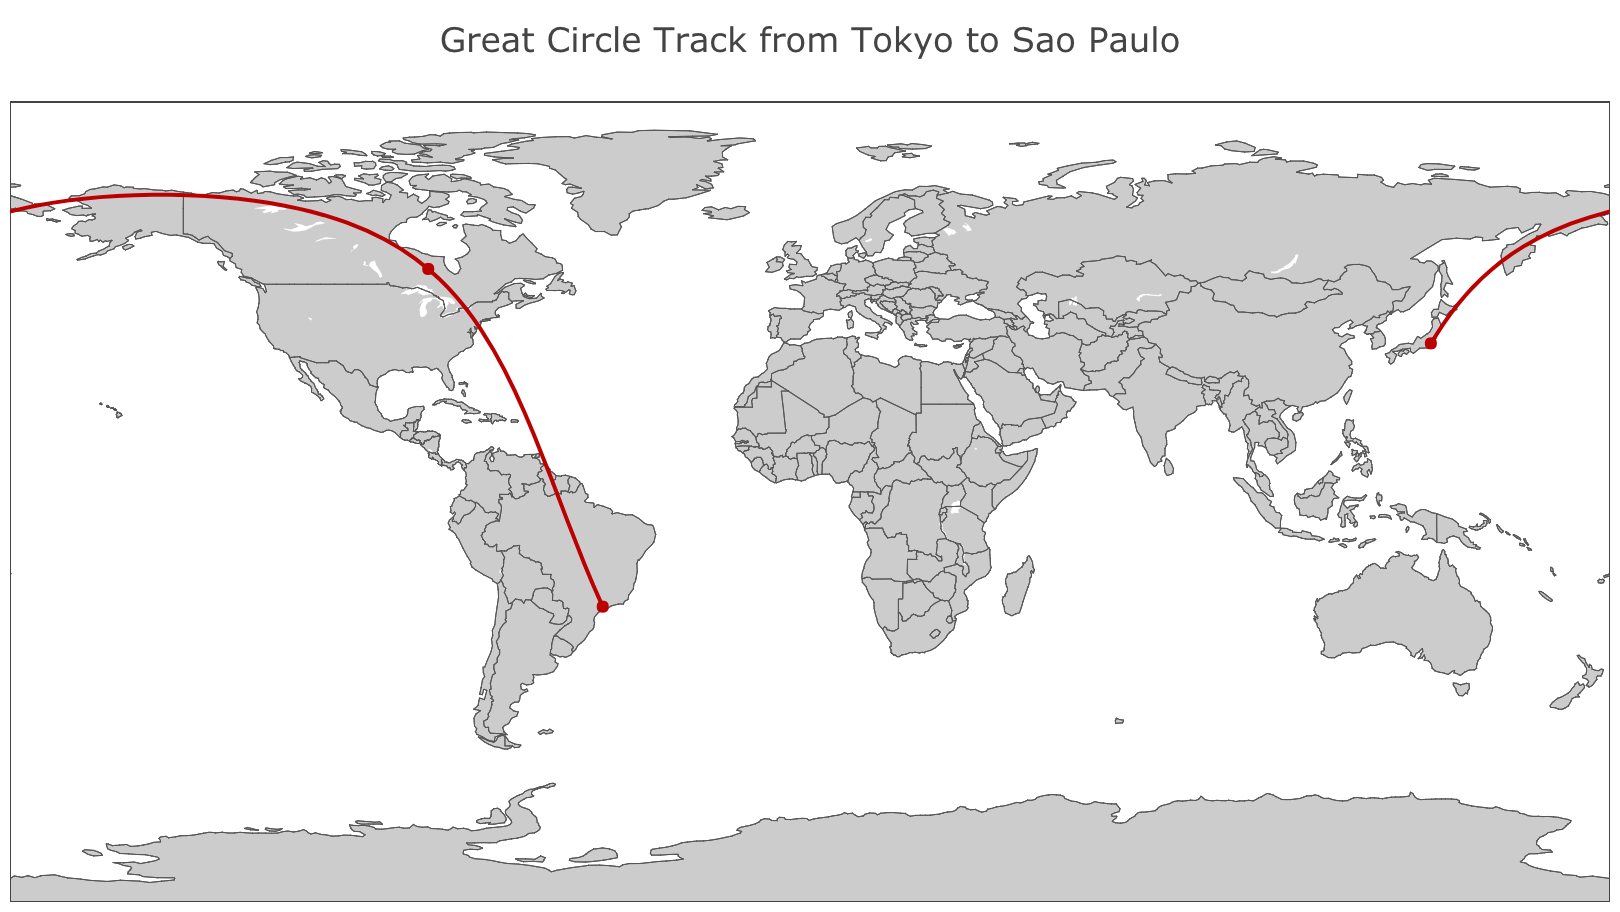
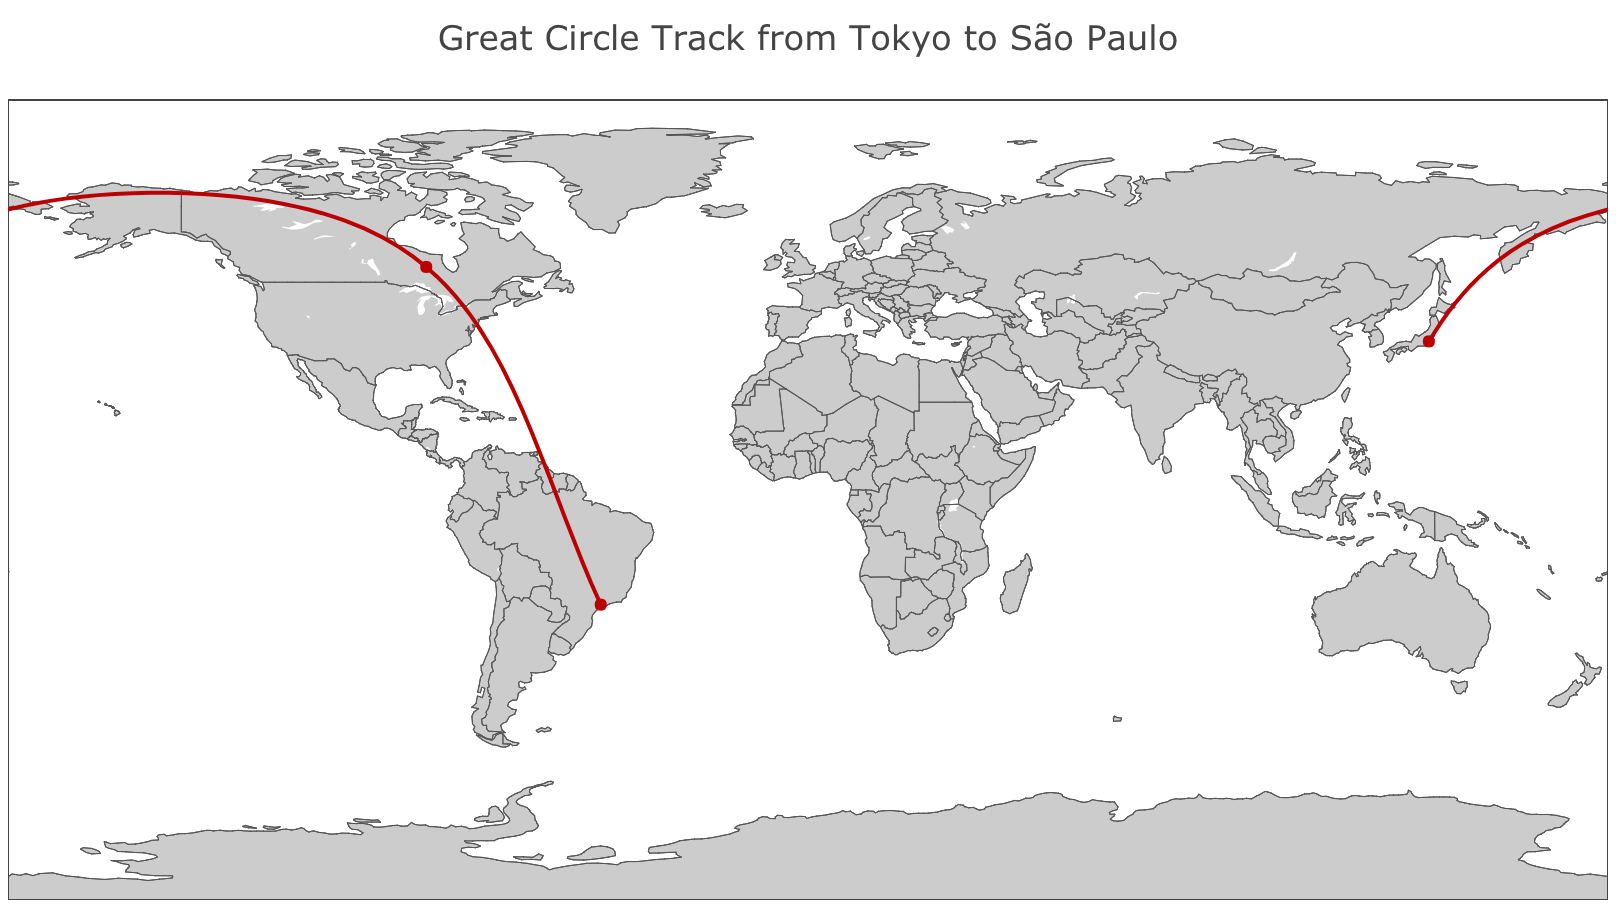
fix typo

diff --git a/_posts/2017-12-22-straightening_great_circles.md b/_posts/2017-12-22-straightening_great_circles.md
@@ -11,7 +11,7 @@ Many a bored long-haul flight passenger has asked themselves why the flight path
 
 <!-- more -->
 
-The shortest path between two points on a sphere is called the [Great Circle track][gc]. This is because, paradoxical as it may sound, it lies along the biggest circle you can draw that includes those two points. Let’s take a look at a typical map with an [equirectangular projection][er] plotting the Great Circle track from Tokyo to Sao Paulo, with the midpoint highlighted (hint: it’s above the Great Lakes in North America).
+The shortest path between two points on a sphere is called the [Great Circle track][gc]. This is because, paradoxical as it may sound, it lies along the biggest circle you can draw that includes those two points. Let’s take a look at a typical map with an [equirectangular projection][er] plotting the Great Circle track from Tokyo to São Paulo, with the midpoint highlighted (hint: it’s above the Great Lakes in North America).
 
 ![](http://nicolas.kruchten.com/images/straight_circles/tokyo_sao_paulo.png)
 
